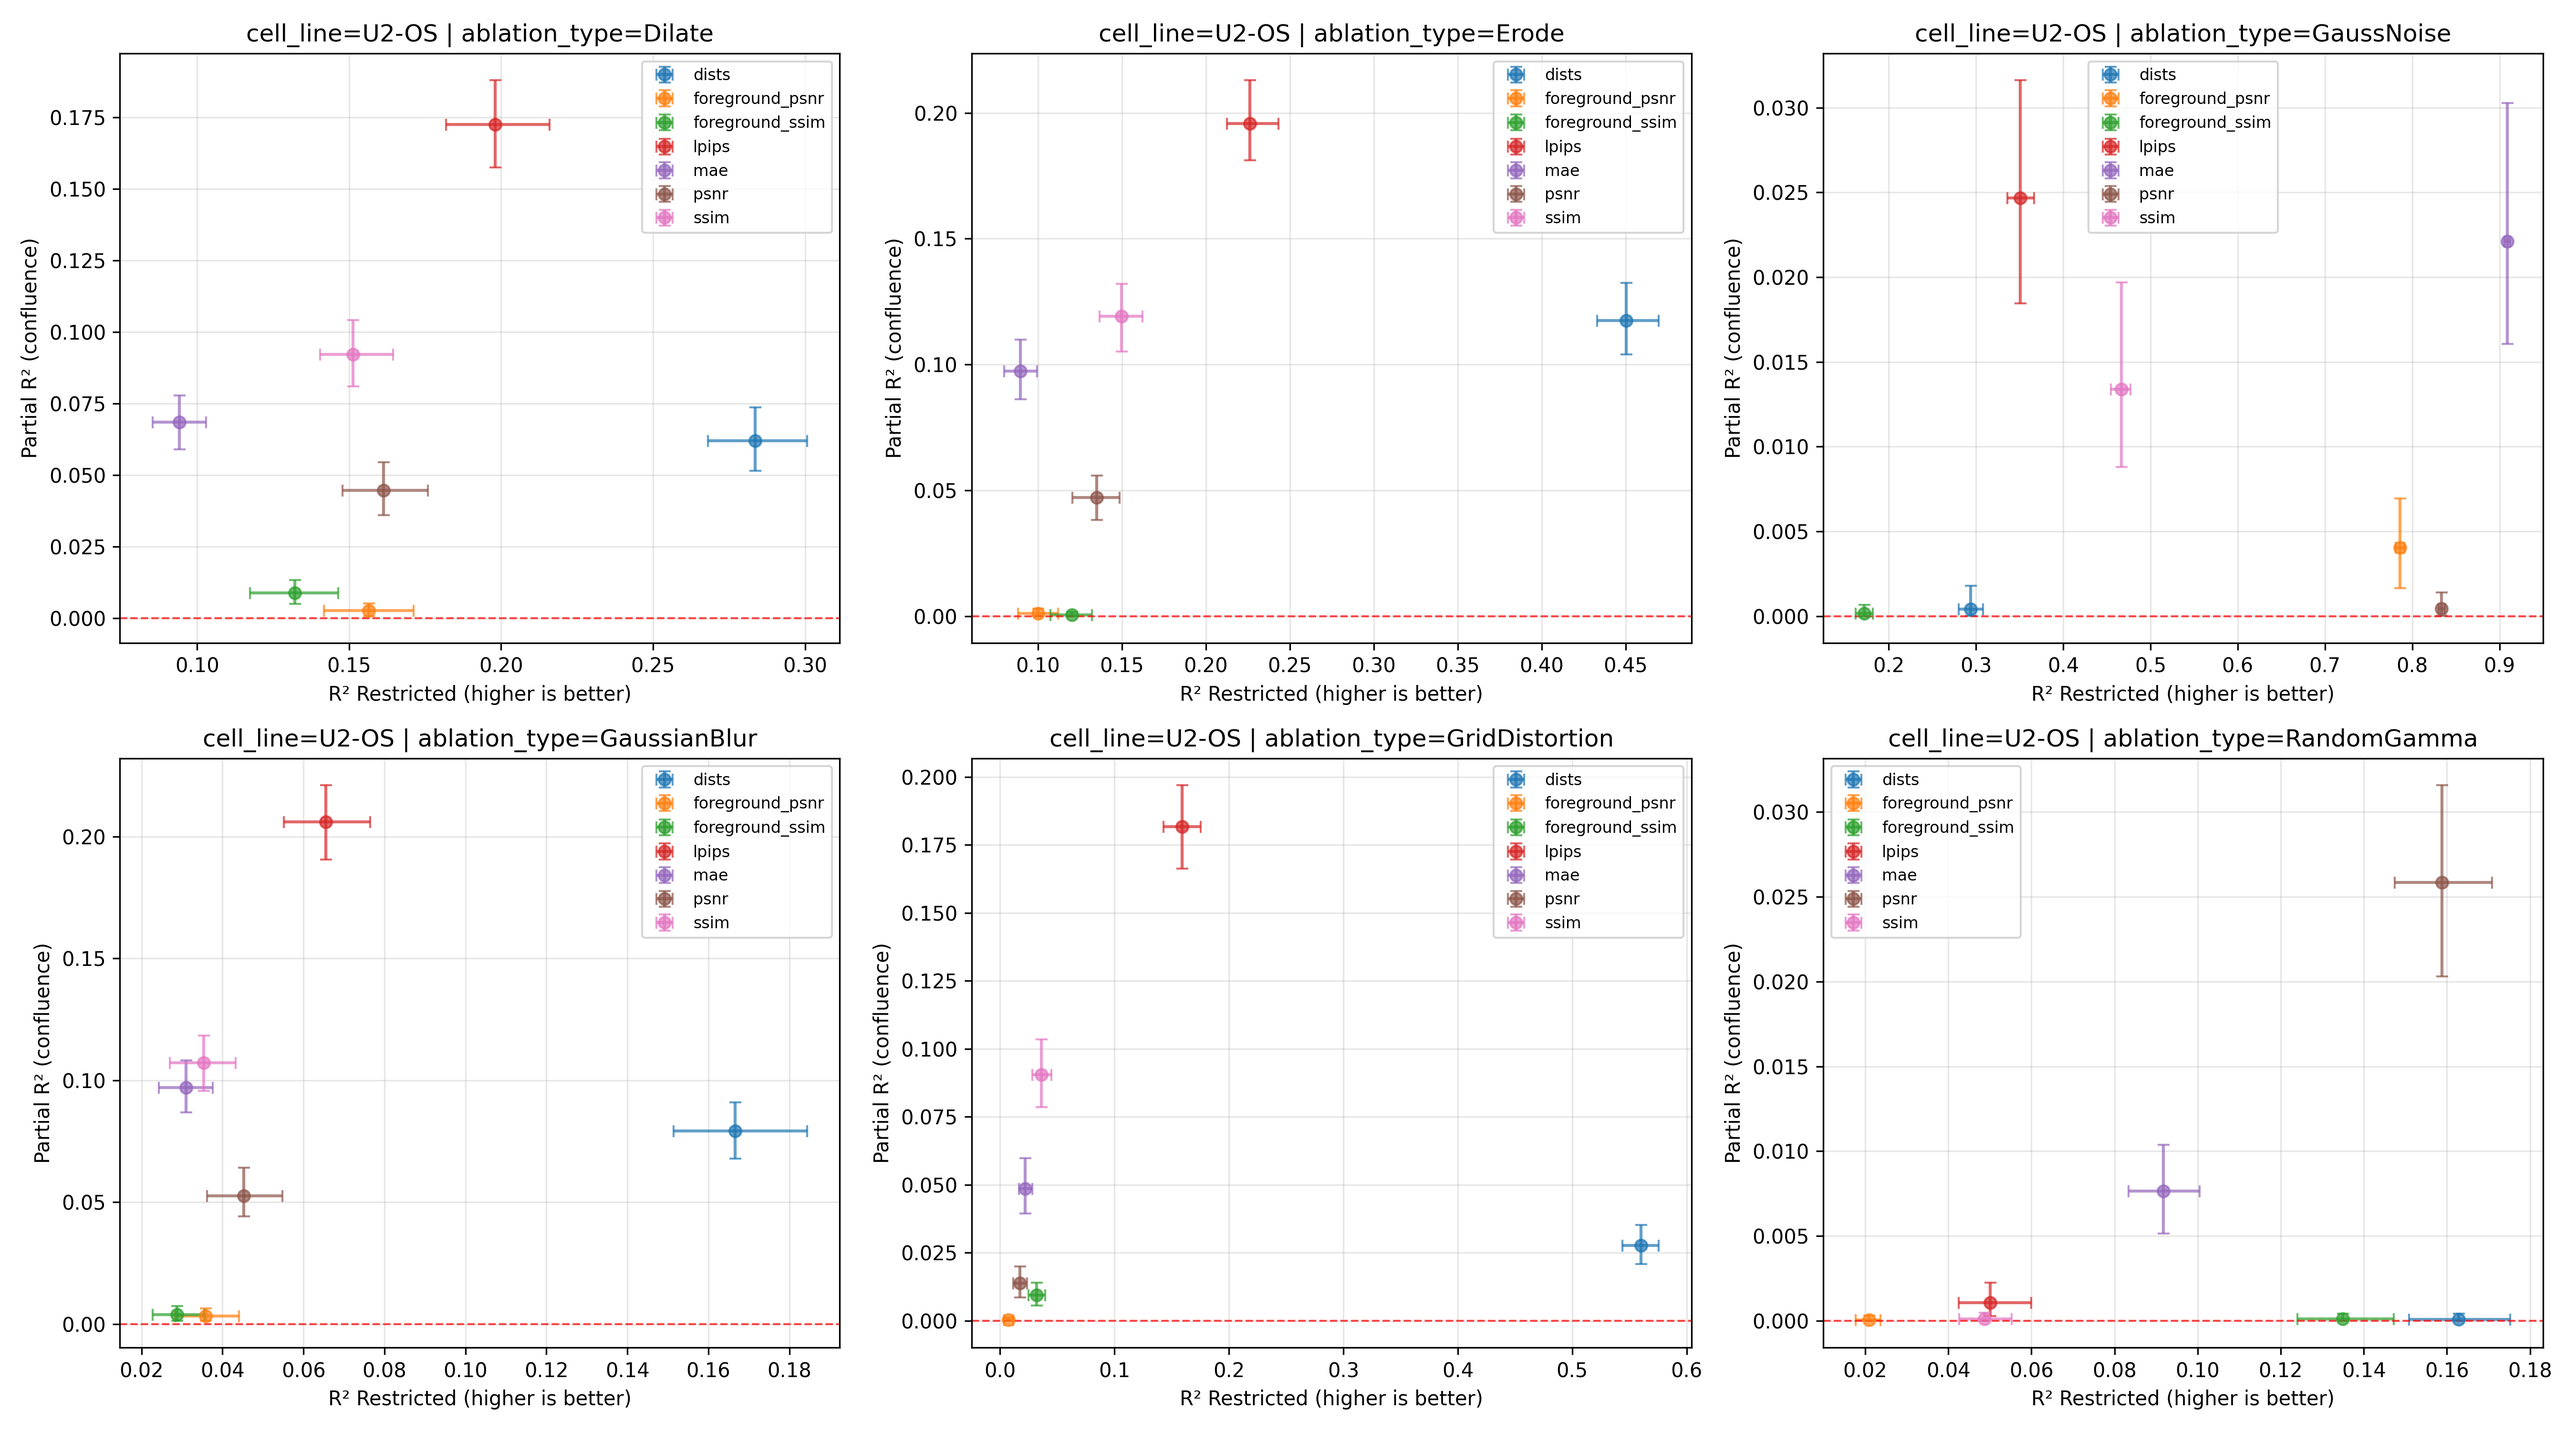
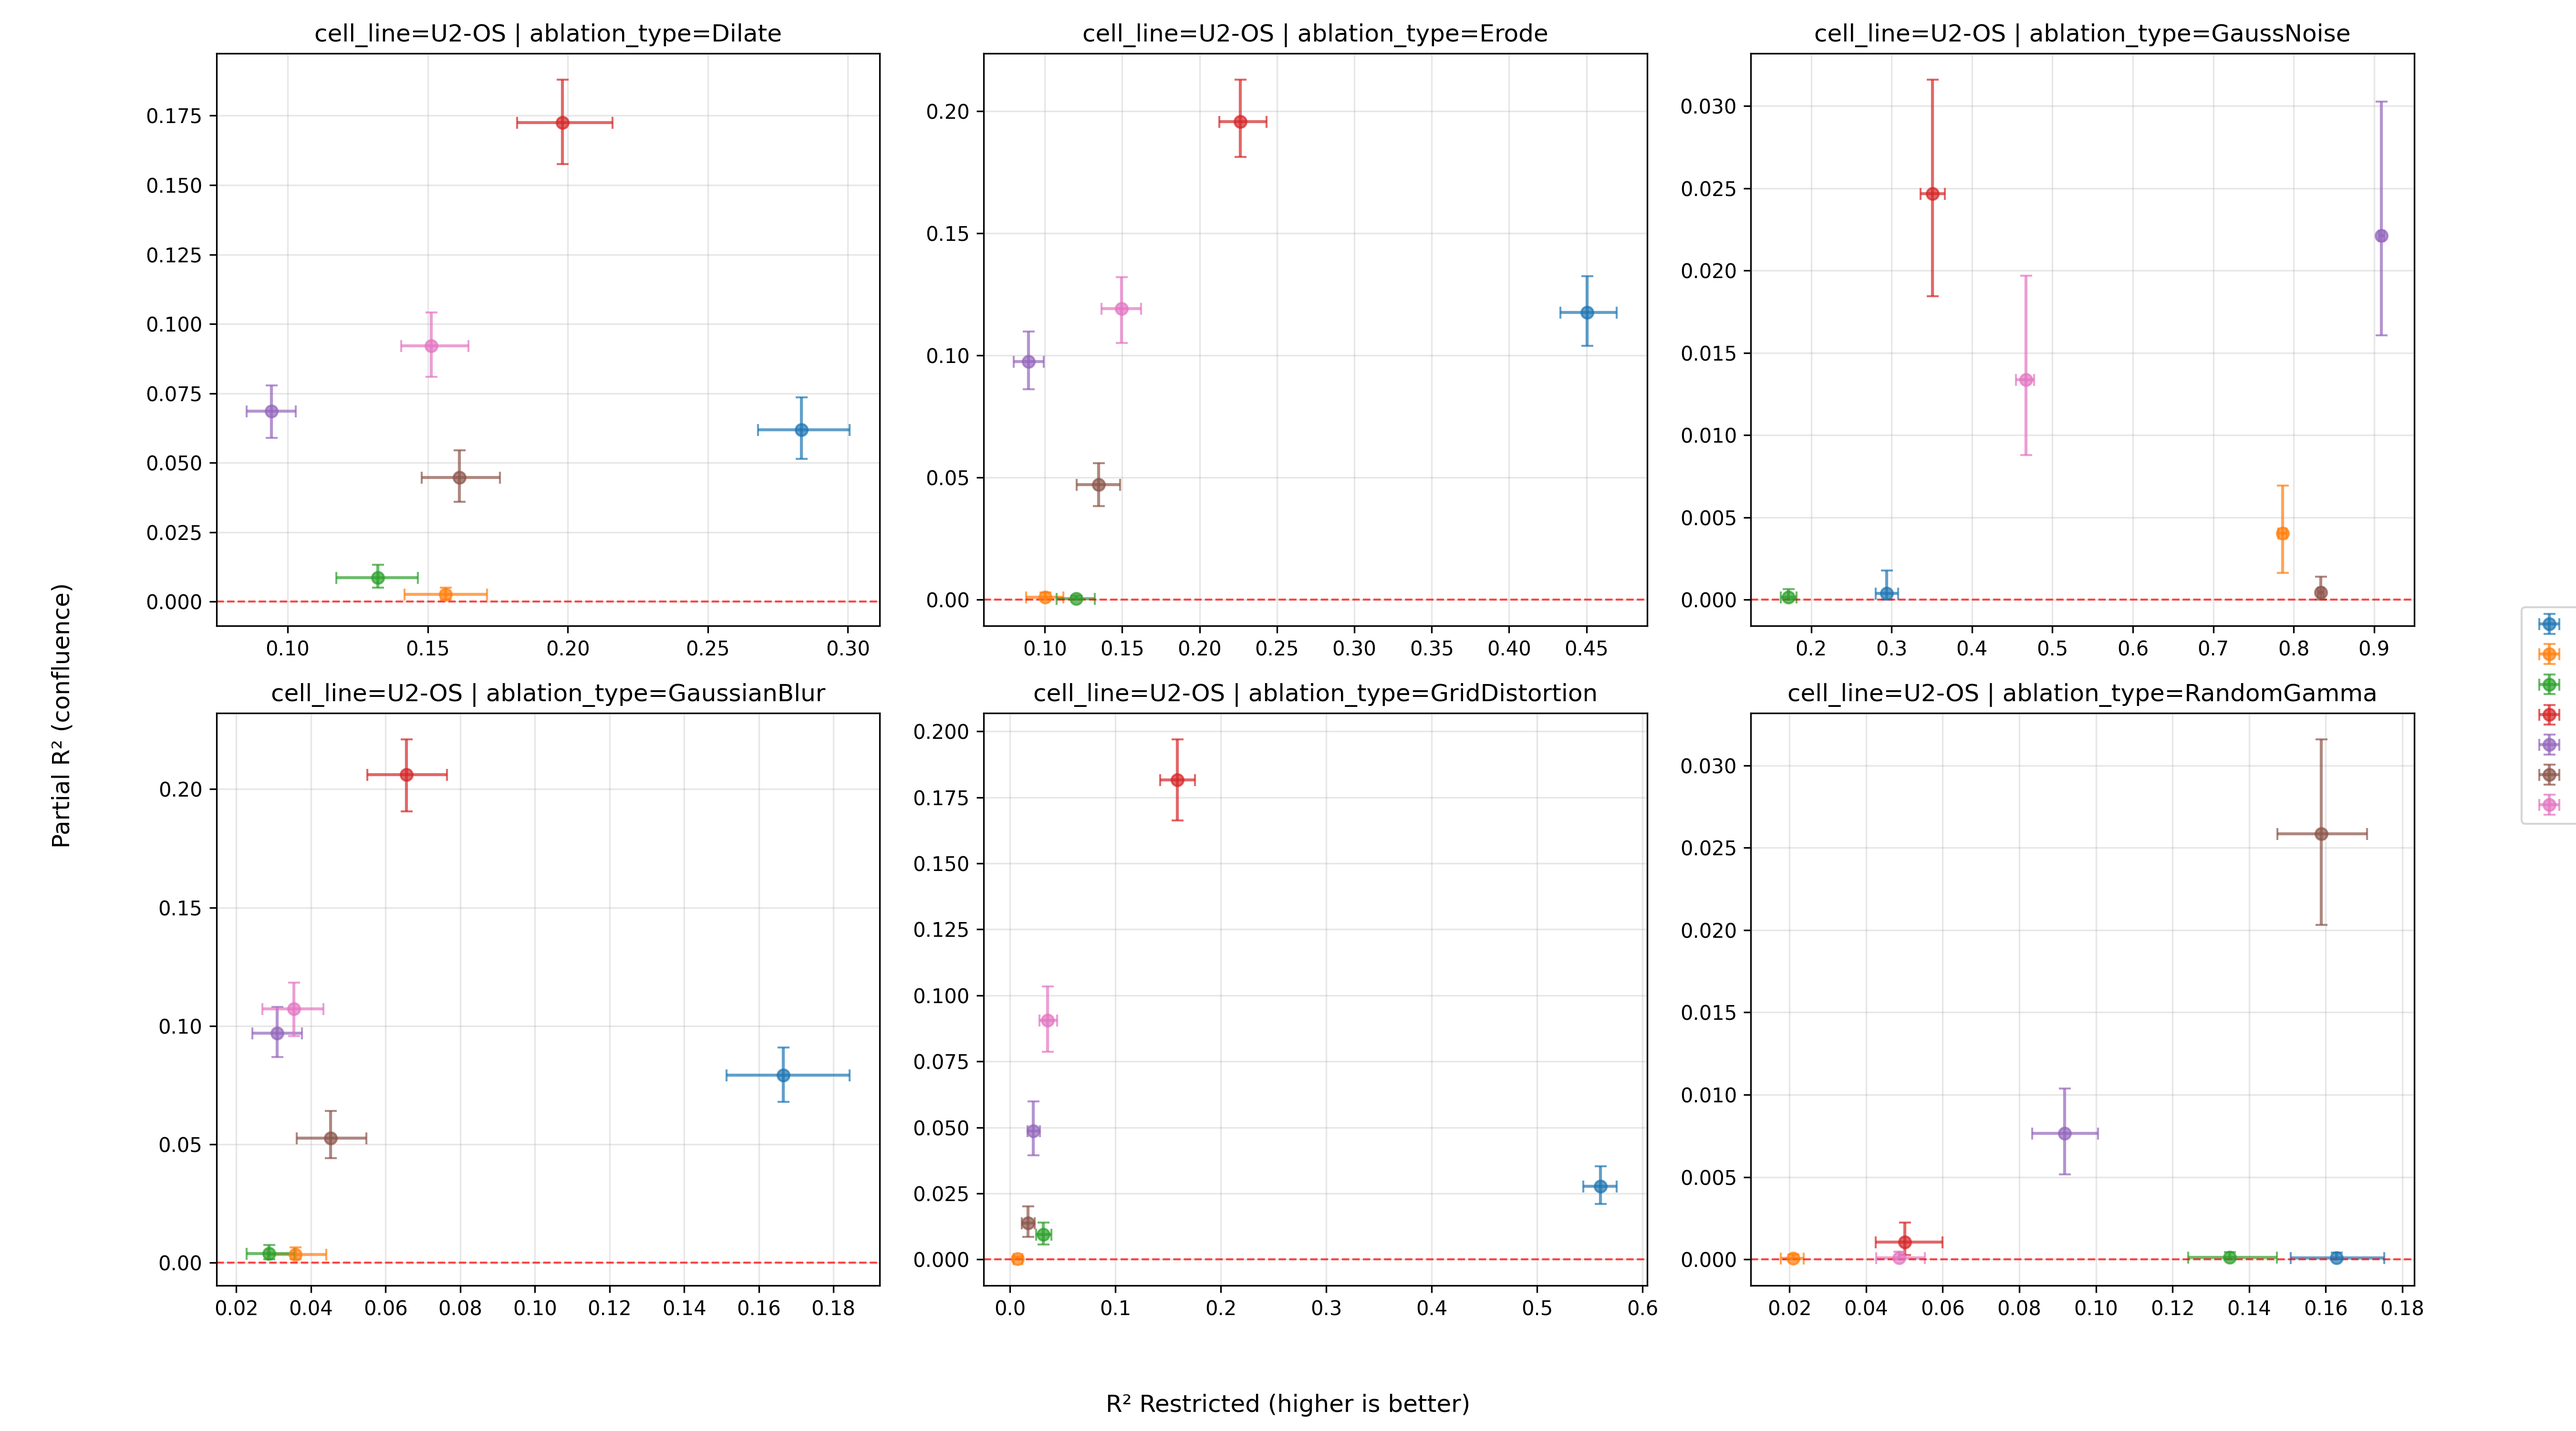
Modify plotting function to collect and legend and axis labels

diff --git a/2.metrics_ablation_analysis/src/image_ablation_analysis/regression/visualization.py b/2.metrics_ablation_analysis/src/image_ablation_analysis/regression/visualization.py
@@ -127,6 +127,9 @@ def plot_partial_r2_vs_r2(
     # --------------------------
     # 5. Draw each panel
     # --------------------------
+    # Track legend handles and labels for a single shared legend
+    legend_handles = {}
+
     for idx, (_, combo_row) in enumerate(unique_combinations.iterrows()):
         ax = axes[idx]
 
@@ -141,7 +144,7 @@ def plot_partial_r2_vs_r2(
         for hue_val in combo_data[hue_col].unique():
             metric_data = combo_data[combo_data[hue_col] == hue_val]
 
-            ax.errorbar(
+            errorbar = ax.errorbar(
                 metric_data["r2_restricted_mean"],
                 metric_data["partial_r2_mean"],
                 xerr=[
@@ -160,24 +163,38 @@ def plot_partial_r2_vs_r2(
                 capsize=3,
             )
 
+            # Collect legend handles (only need one per hue value)
+            if hue_val not in legend_handles:
+                legend_handles[hue_val] = errorbar
+
         # Horizontal reference line at 0 partial R²
         ax.axhline(y=0, color="red", linestyle="--", linewidth=1, alpha=0.7)
-
-        ax.set_xlabel(r2_label, fontsize=10)
-        ax.set_ylabel(partial_label, fontsize=10)
 
         # Title: join panel values for this combo
         title_parts = [f"{col}={combo_row[col]}" for col in panel_cols]
         ax.set_title(" | ".join(title_parts), fontsize=12)
 
-        ax.legend(fontsize=8, loc="best")
         ax.grid(True, alpha=0.3)
 
     # Hide unused subplots
     for idx in range(n_plots, len(axes)):
         axes[idx].axis("off")
 
-    plt.tight_layout()
+    fig.supxlabel(r2_label, fontsize=12)
+    fig.supylabel(partial_label, fontsize=12)
+
+    # Create a single shared legend outside the plots (to the right)
+    handles = [legend_handles[hue_val] for hue_val in unique_hues if hue_val in legend_handles]
+    labels = [hue_val for hue_val in unique_hues if hue_val in legend_handles]
+    fig.legend(
+        handles, labels,
+        loc="center left",
+        bbox_to_anchor=(0.975, 0.5),
+        fontsize=10,
+        frameon=True,
+    )
+
+    plt.tight_layout(rect=[0.03, 0.03, 0.95, 1.0]) # 10% right space for legend
 
     if save_path is not None:
         save_path = Path(save_path).resolve()

diff --git a/2.metrics_ablation_analysis/2.3.metrics_analysis.py b/2.metrics_ablation_analysis/2.3.metrics_analysis.py
@@ -125,7 +125,7 @@ boot_res = bootstrap_nested_regression(merged, colspec, cfg)
 
 # ## Visualize
 
-# In[ ]:
+# In[19]:
 
 
 plot_partial_r2_vs_r2(
